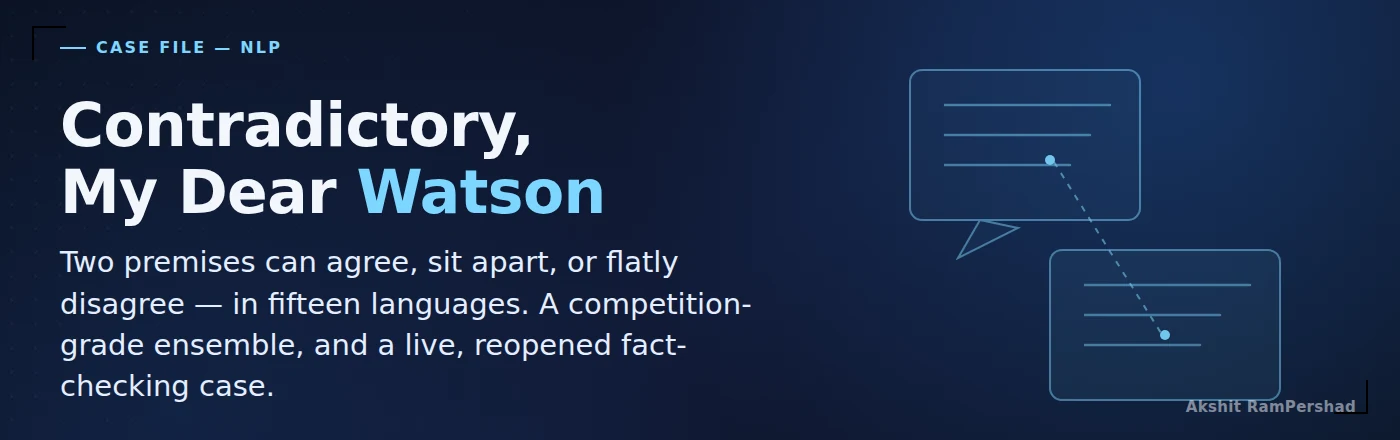
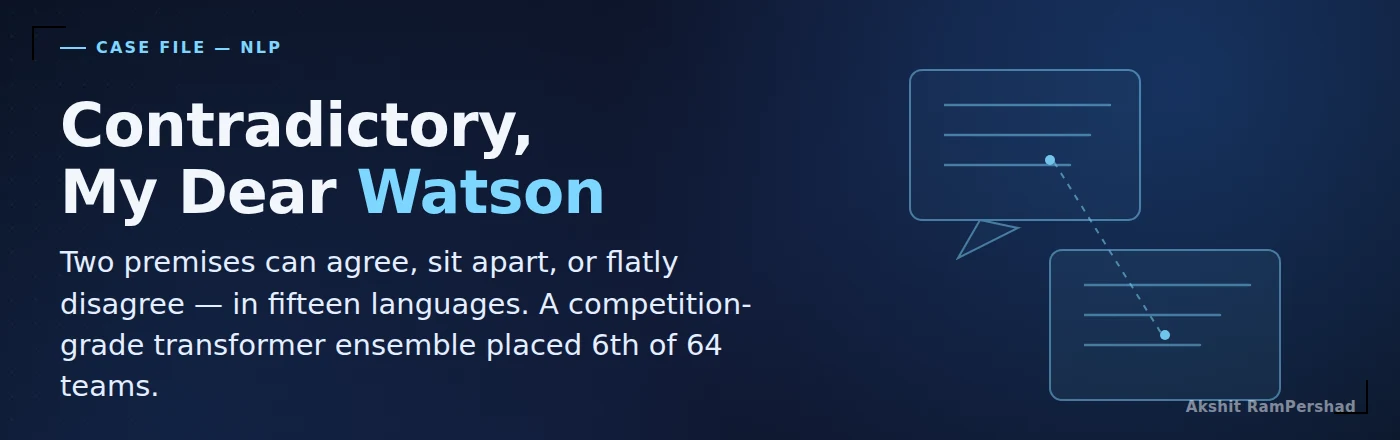
Drop the fact-checking dashboard from the Watson card, focus on the real Kaggle project
The dashboard was a much lighter rebuild (TF-IDF + logistic regression,
no GPU) built only to have a live demo link -- it read as mismatched
bolted onto the actual 90.06%/6th-of-64 XLM-RoBERTa ensemble result.
Removes the live-demo badge/link, rewrites the description and cover
tagline to describe only the real project, retitles the card
"Watson: Multilingual NLI", and swaps the live-demo link for the
notebook link. Also updates the two chatbot FAQ answers that
mentioned the dashboard.

Changed region(s): [[0.0921, 0.7386, 0.5221, 0.8273], [0.0307, 0.8568, 0.1843, 0.9159]]

diff --git a/index.html b/index.html
@@ -1826,20 +1826,20 @@
         </div>
 
         <div class="repo-card">
-          <div class="repo-card-image-wrap"><img class="repo-card-image" src="images/watson-cover.webp" alt="Contradictory, Dear Watson"></div>
+          <div class="repo-card-image-wrap"><img class="repo-card-image" src="images/watson-cover.webp" alt="Contradictory, My Dear Watson"></div>
           <div class="repo-card-body">
-            <div class="repo-status-row"><span class="repo-badge repo-badge-live"><span class="dot"></span>Live Demo</span></div>
-            <h3><a href="https://github.com/AkshitRampershad/Contradictory-My-Dear-Watson" target="_blank" rel="noopener noreferrer">Watson: Multilingual NLI &amp; Fact-Checking</a></h3>
-           
+            <div class="repo-status-row"><span class="repo-badge repo-badge-neutral"><span class="dot"></span>Kaggle Competition</span></div>
+            <h3><a href="https://github.com/AkshitRampershad/Contradictory-My-Dear-Watson" target="_blank" rel="noopener noreferrer">Watson: Multilingual NLI</a></h3>
+
             <div class="repo-tags">
               <span class="repo-tag">XLM-RoBERTa Ensemble</span>
               <span class="repo-tag">Multilingual NLI</span>
-              <span class="repo-tag">Fact-Checking</span>
+              <span class="repo-tag">Kaggle Competition</span>
             </div>
-            <p class="repo-desc">An ensemble of fine-tuned XLM-RoBERTa models reached 90.06% accuracy across 15 languages, placing 6th of 64 teams in a real Kaggle competition. Alongside that notebook, a separate lightweight dashboard reopens the same task as a live fact-checking tool: paste reference statements and a new claim, and any contradictions are flagged in real time &mdash; no GPU required.</p>
+            <p class="repo-desc">An ensemble of fine-tuned XLM-RoBERTa models reached 90.06% accuracy across 15 languages, placing 6th of 64 teams in a real Kaggle competition. The final model stacks and averages multiple transformers fine-tuned on SNLI, MNLI, ANLI, and XNLI, with L2 regularization improving generalization across languages &mdash; built on a progression of baselines (RoBERTa, mBERT, XLM-RoBERTa) each measured and compared before the ensemble.</p>
             <div class="repo-links">
+              <a class="repo-link" href="https://github.com/AkshitRampershad/Contradictory-My-Dear-Watson/blob/main/NLP_Watson_FinalProject.ipynb" target="_blank" rel="noopener noreferrer"><i class="fas fa-book"></i> Notebook</a>
               <a class="repo-link" href="https://github.com/AkshitRampershad/Contradictory-My-Dear-Watson/blob/main/Contradictory,%20My%20Dear%20Watson_Final_Report_Group5.pdf" target="_blank" rel="noopener noreferrer"><i class="fas fa-file-pdf"></i> Project Report</a>
-              <a class="repo-link repo-link-live" href="https://contradictory-my-dear-watson-mahasvpajjdnaidui3jktw.streamlit.app/" target="_blank" rel="noopener noreferrer"><span class="dot"></span> Watson </a>
               <a class="repo-link" href="https://github.com/AkshitRampershad/Contradictory-My-Dear-Watson" target="_blank" rel="noopener noreferrer"><i class="fab fa-github"></i>GitHub</a>
             </div>
           </div>
@@ -2331,7 +2331,7 @@
       },
       {
         keywords: ['projects', 'built', 'portfolio projects', 'github projects', 'work built'],
-        answer: "Akshit's featured projects include CYBER-GPT (a GenAI RAG solution for cybersecurity threat response), an AI-Powered Agentic Workflow for project management (live dashboard, Groq-hosted LLM agents), a Credit Risk & Portfolio Optimization Dashboard (live, real scikit-learn/SciPy models), and Contradictory My Dear Watson (90.06% accuracy, 6th out of 64 in a Kaggle competition, plus a live fact-checking dashboard). See the Projects section above for details, live demos, and GitHub links."
+        answer: "Akshit's featured projects include CYBER-GPT (a GenAI RAG solution for cybersecurity threat response), an AI-Powered Agentic Workflow for project management (live dashboard, Groq-hosted LLM agents), a Credit Risk & Portfolio Optimization Dashboard (live, real scikit-learn/SciPy models), and Contradictory My Dear Watson (90.06% accuracy, 6th out of 64 in a Kaggle competition). See the Projects section above for details, live demos, and GitHub links."
       },
       {
         keywords: ['cyber-gpt', 'cybergpt', 'cyber gpt', 'cybersecurity project', 'soc'],
@@ -2347,7 +2347,7 @@
       },
       {
         keywords: ['watson', 'contradictory', 'nlp project', 'kaggle', 'xlm'],
-        answer: "Contradictory, My Dear Watson is a multilingual Natural Language Inference project built for a Kaggle competition, classifying sentence pairs across 15 languages with an ensemble of fine-tuned XLM-RoBERTa models that reached 90.06% accuracy — 6th out of 64 teams. A separate lightweight dashboard reopens the same task as a live fact-checking tool. <a href=\"https://contradictory-my-dear-watson-mahasvpajjdnaidui3jktw.streamlit.app/\" target=\"_blank\" rel=\"noopener noreferrer\">Try the live demo</a> or <a href=\"https://github.com/AkshitRampershad/Contradictory-My-Dear-Watson\" target=\"_blank\" rel=\"noopener noreferrer\">view on GitHub</a>."
+        answer: "Contradictory, My Dear Watson is a multilingual Natural Language Inference project built for a Kaggle competition, classifying sentence pairs across 15 languages with an ensemble of fine-tuned XLM-RoBERTa models that reached 90.06% accuracy — 6th out of 64 teams. <a href=\"https://github.com/AkshitRampershad/Contradictory-My-Dear-Watson/blob/main/NLP_Watson_FinalProject.ipynb\" target=\"_blank\" rel=\"noopener noreferrer\">View the notebook</a> or <a href=\"https://github.com/AkshitRampershad/Contradictory-My-Dear-Watson\" target=\"_blank\" rel=\"noopener noreferrer\">view on GitHub</a>."
       },
       {
         keywords: ['certifications', 'certificates', 'credentials', 'certified'],
